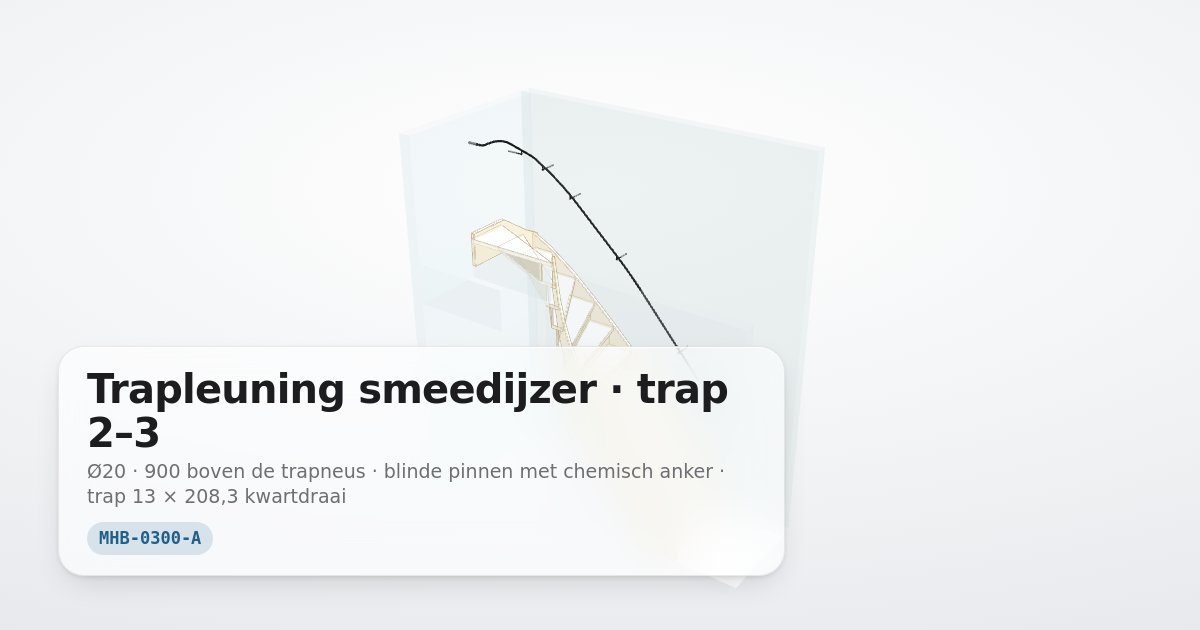
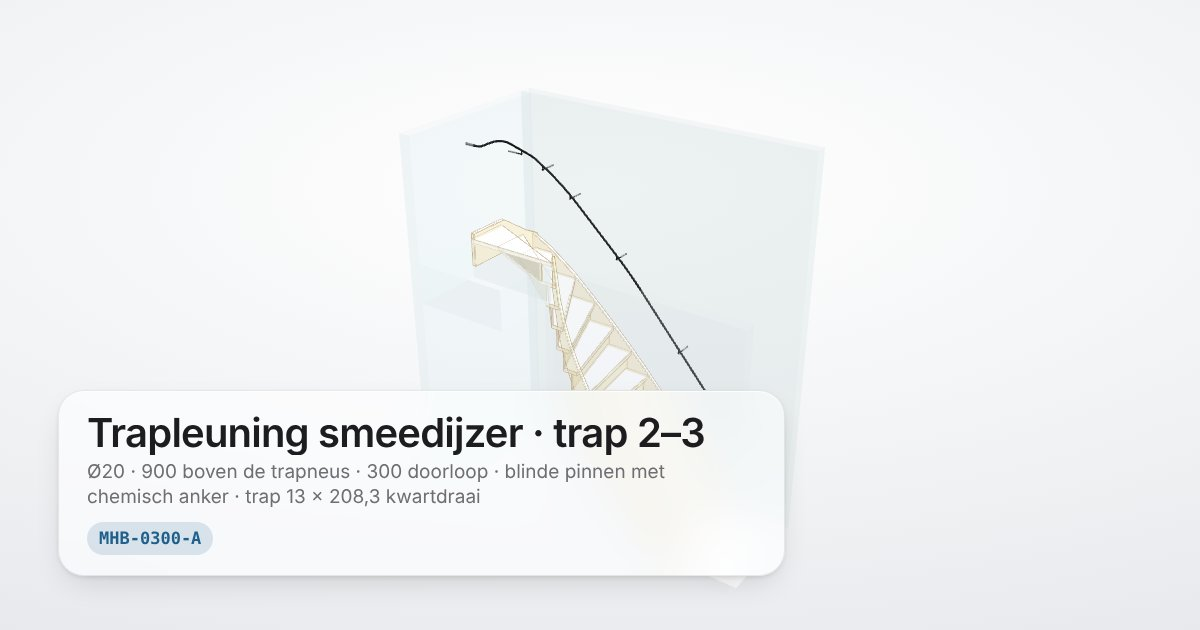
MHB-0300-A (concept): leuning loopt 300 mm door voor en na de trap
Onderaan een horizontaal stuk van 300 mm voorbij trede 1 (knik 48,6°),
bovenaan 300 mm horizontaal voorbij trede 13 (was 260). Plooistaat,
lengtes (as ≈ 4,44 m) en maten bijgewerkt.

Claude-Session: https://claude.ai/code/session_01XXJD1Cb5JRmrQvLX4eUmCv

Changed region(s): [[0.0617, 0.5429, 0.6167, 0.8143], [0.37, 0.2111, 0.4008, 0.2413], [0.1233, 0.8444, 0.1542, 0.8746]]

diff --git a/drawings/MHB-0300/A.html b/drawings/MHB-0300/A.html
@@ -28,14 +28,14 @@
 // Trap overgenomen uit het grondplan van de trappenmaker (schaal 1:13,3), licht getekend; de leuning is het onderwerp.
 // Plan in mm: X langs de lange muur (0 = korte muur), Y van de lange muur naar binnen (0 … 941,68).
 // Wereld: x = X, z = Y, y = hoogte (0 = vloer beneden, 2708 = vloer boven).
-const D = {"NOS": [[[2311.1, 1.1], [2311.1, 941.1]], [[2135.2, 1.1], [2135.2, 941.1]], [[1957.1, 1.1], [1957.1, 941.1]], [[1780.1, 1.1], [1780.1, 941.1]], [[1598.0, 1.1], [1611.6, 941.1]], [[1404.0, 1.1], [1463.0, 941.1]], [[1199.8, 1.1], [1332.0, 941.1]], [[979.7, 0.6], [1224.8, 941.1]], [[749.9, 0.6], [1137.4, 941.1]], [[508.3, 1.7], [1068.2, 941.7]], [[215.0, 3.4], [1020.0, 941.7]], [[0.6, 190.0], [989.9, 941.1]], [[0.0, 506.6], [959.8, 941.7]]], "RAIL": [[2311.1, 0, 1111], [2311.1, 70, 1111], [1211.1, 70, 2359], [411.1, 70, 3087], [70.0, 70, 3288], [70, 537.9, 3598], [70, 797.9, 3598], [0, 797.9, 3598]], "PINS": [[1791.1, 70, 1701], [1061.1, 70, 2496], [511.0999999999999, 70, 2996], [181.0999999999999, 70, 3223], [70, 248.9000000000001, 3407]], "OFF": 70, "BENDS": [90.0, 6.3, 11.8, 73.7, 33.5, 90.0], "PITCH": [0.0, 48.6, 42.3, 30.5, 33.5, 0.0, 0.0], "LEN": [70, 1664, 1082, 396, 561, 260, 70]};
+const D = {"NOS": [[[2311.1, 1.1], [2311.1, 941.1]], [[2135.2, 1.1], [2135.2, 941.1]], [[1957.1, 1.1], [1957.1, 941.1]], [[1780.1, 1.1], [1780.1, 941.1]], [[1598.0, 1.1], [1611.6, 941.1]], [[1404.0, 1.1], [1463.0, 941.1]], [[1199.8, 1.1], [1332.0, 941.1]], [[979.7, 0.6], [1224.8, 941.1]], [[749.9, 0.6], [1137.4, 941.1]], [[508.3, 1.7], [1068.2, 941.7]], [[215.0, 3.4], [1020.0, 941.7]], [[0.6, 190.0], [989.9, 941.1]], [[0.0, 506.6], [959.8, 941.7]]], "RAIL": [[2611.1, 0, 1111], [2611.1, 70, 1111], [2311.1, 70, 1111], [1211.1, 70, 2359], [411.1, 70, 3087], [70.0, 70, 3288], [70, 537.9, 3598], [70, 837.9, 3598], [0, 837.9, 3598]], "PINS": [[1791.1, 70, 1701], [1061.1, 70, 2496], [511.0999999999999, 70, 2996], [181.0999999999999, 70, 3223], [70, 248.9000000000001, 3407]], "OFF": 70, "BENDS": [90.0, 48.6, 6.3, 11.8, 73.7, 33.5, 90.0], "PITCH": [0.0, 0.0, 48.6, 42.3, 30.5, 33.5, 0.0, 0.0], "LEN": [70, 300, 1664, 1082, 396, 561, 300, 70]};
 const W = 941.68, LEN = 2303.22, RISE = 2708 / 13, TREAD = 34, RISER = 12, OVER = 50, STRINGER = 33;
 const FLOOR2 = 2708, WALL_TOP = 3900;
 
 const viewer = DrawingViewer.create({
   lang: 'nl',
   title: 'Trapleuning smeedijzer · trap 2–3',
-  subtitle: 'Ø20 · 900 boven de trapneus · blinde pinnen met chemisch anker · trap 13 × 208,3 kwartdraai',
+  subtitle: 'Ø20 · 900 boven de trapneus · 300 doorloop · blinde pinnen met chemisch anker · trap 13 × 208,3 kwartdraai',
   number: 'MHB-0300-A',
   register: { url: '../../drawings.json', number: 'MHB-0300', rev: 'A' },
   colors: {
@@ -58,9 +58,9 @@ const viewer = DrawingViewer.create({
   titleBlock: [
     { k: 'Titel', v: 'Trapleuning smeedijzer · trap 2–3', title: true },
     { k: 'Tekeningnr.', v: 'MHB-0300-A' },
-    { k: 'Leuning', v: 'smeedijzer Ø20, langs lange en korte muur; bovenkant 900 boven de trapneuslijn (±13)' },
-    { k: 'Plooistaat', v: 'helling 48,6° · knik 6,3° · 42,3° · knik 11,8° · 30,5° · hoek in plan 90° (3D 73,7°) · 33,5° · knik 33,5° · horizontaal' },
-    { k: 'Lengtes (as)', v: '70 · 1664 · 1082 · 396 · 561 · 260 · 70 (totaal ≈ 4100, waarvan 2 × 70 haaks naar de muur)' },
+    { k: 'Leuning', v: 'smeedijzer Ø20, langs lange en korte muur; bovenkant 900 boven de trapneuslijn (±13); loopt 300 horizontaal door voor de eerste en na de laatste trede' },
+    { k: 'Plooistaat', v: 'horizontaal 300 · knik 48,6° · 48,6° · knik 6,3° · 42,3° · knik 11,8° · 30,5° · hoek in plan 90° (3D 73,7°) · 33,5° · knik 33,5° · horizontaal 300' },
+    { k: 'Lengtes (as)', v: '70 · 300 · 1664 · 1082 · 396 · 561 · 300 · 70 (totaal ≈ 4440; 2 × 300 doorloop, 2 × 70 haaks naar de muur)' },
     { k: 'Bevestiging', v: '5 blinde pinnen Ø12 (40 omlaag, haaks naar de muur, 90 diep in chemisch anker) + beide uiteinden haaks 90 diep in de muur' },
     { k: 'Afstand muur', v: '60 vrij tussen muur en leuning (as op 70)' },
     { k: 'Trap', v: 'Keepboom_G · 13 × 208,3 · aantrede 176 · beuk 34 · trapgat 2303 × 942' },
@@ -157,7 +157,7 @@ const viewer = DrawingViewer.create({
 
     // ---------- leuning Ø20 (smeedijzer), plooien met afgeronde bochten
     const R = D.RAIL.map(([x, y, h]) => P(x, y, h));
-    const radius = [0, 40, 250, 250, 70, 160, 40, 0];
+    const radius = [0, 40, 150, 250, 250, 70, 160, 40, 0];
     const path = new THREE.CurvePath();
     let prev = R[0];
     for (let i = 1; i < R.length - 1; i++) {
@@ -214,13 +214,20 @@ const viewer = DrawingViewer.create({
     });
     const mid = (i, t = 0.5) => R[i].clone().lerp(R[i + 1], t);
     const pitchTxt = v => String(v).replace('.', ',') + '°';
-    all.leader({ p: mid(1, 0.45), e: mid(1, 0.45).add(V(250, 380, 300)), text: 'helling ' + pitchTxt(D.PITCH[1]) });
-    all.leader({ p: mid(2, 0.5), e: mid(2, 0.5).add(V(150, 420, 300)), text: 'helling ' + pitchTxt(D.PITCH[2]) });
-    all.leader({ p: R[2], e: R[2].clone().add(V(-200, -520, 250)), text: 'knik ' + pitchTxt(D.BENDS[1]) });
-    all.leader({ p: R[3], e: R[3].clone().add(V(-150, -560, 260)), text: 'knik ' + pitchTxt(D.BENDS[2]) });
-    all.leader({ p: R[4], e: R[4].clone().add(V(350, 420, 320)), text: 'hoek 90° in plan' });
-    all.leader({ p: R[5], e: R[5].clone().add(V(320, 260, 260)), text: 'knik ' + pitchTxt(D.BENDS[4]) + ' → horizontaal' });
-    all.leader({ p: mid(0, 0.5), e: mid(0, 0.5).add(V(250, -500, 300)), text: 'Ø20 smeedijzer' });
+    all.leader({ p: mid(2, 0.45), e: mid(2, 0.45).add(V(250, 380, 300)), text: 'helling ' + pitchTxt(D.PITCH[2]) });
+    all.leader({ p: mid(3, 0.5), e: mid(3, 0.5).add(V(150, 420, 300)), text: 'helling ' + pitchTxt(D.PITCH[3]) });
+    all.leader({ p: R[3], e: R[3].clone().add(V(-200, -520, 250)), text: 'knik ' + pitchTxt(D.BENDS[2]) });
+    all.leader({ p: R[4], e: R[4].clone().add(V(-150, -560, 260)), text: 'knik ' + pitchTxt(D.BENDS[3]) });
+    all.leader({ p: R[5], e: R[5].clone().add(V(350, 420, 320)), text: 'hoek 90° in plan' });
+    all.leader({ p: R[6], e: R[6].clone().add(V(320, 260, 260)), text: 'knik ' + pitchTxt(D.BENDS[5]) + ' → horizontaal' });
+    all.leader({ p: R[2], e: R[2].clone().add(V(300, 320, 280)), text: 'knik ' + pitchTxt(D.BENDS[1]) + ' → horizontaal' });
+    // doorloop 300 voor en na de trap
+    const [rx0, , rh0] = D.RAIL[2], [, ry1, rh1] = D.RAIL[7], [, ry0] = D.RAIL[6];
+    all.linear({ a: P(rx0, D.OFF, rh0 + 120), b: P(rx0 + 300, D.OFF, rh0 + 120), n: V(0, 0, 1), text: '300',
+      ext: [[P(rx0, D.OFF, rh0 + 20), P(rx0, D.OFF, rh0 + 140)], [P(rx0 + 300, D.OFF, rh0 + 20), P(rx0 + 300, D.OFF, rh0 + 140)]] });
+    all.linear({ a: P(D.OFF, ry0, rh1 + 120), b: P(D.OFF, ry1, rh1 + 120), n: V(1, 0, 0), text: '300',
+      ext: [[P(D.OFF, ry0, rh1 + 20), P(D.OFF, ry0, rh1 + 140)], [P(D.OFF, ry1, rh1 + 20), P(D.OFF, ry1, rh1 + 140)]] });
+    all.leader({ p: mid(2, 0.25), e: mid(2, 0.25).add(V(250, -500, 300)), text: 'Ø20 smeedijzer' });
     all.note({ pos: P(LEN * 0.55, -60, WALL_TOP + 120), text: 'Lange muur' });
     all.note({ pos: P(-60, W * 0.55, WALL_TOP + 120), text: 'Korte muur' });
     all.note({ pos: P(470, W + 350, FLOOR2 + 40), text: 'Overloop' });
